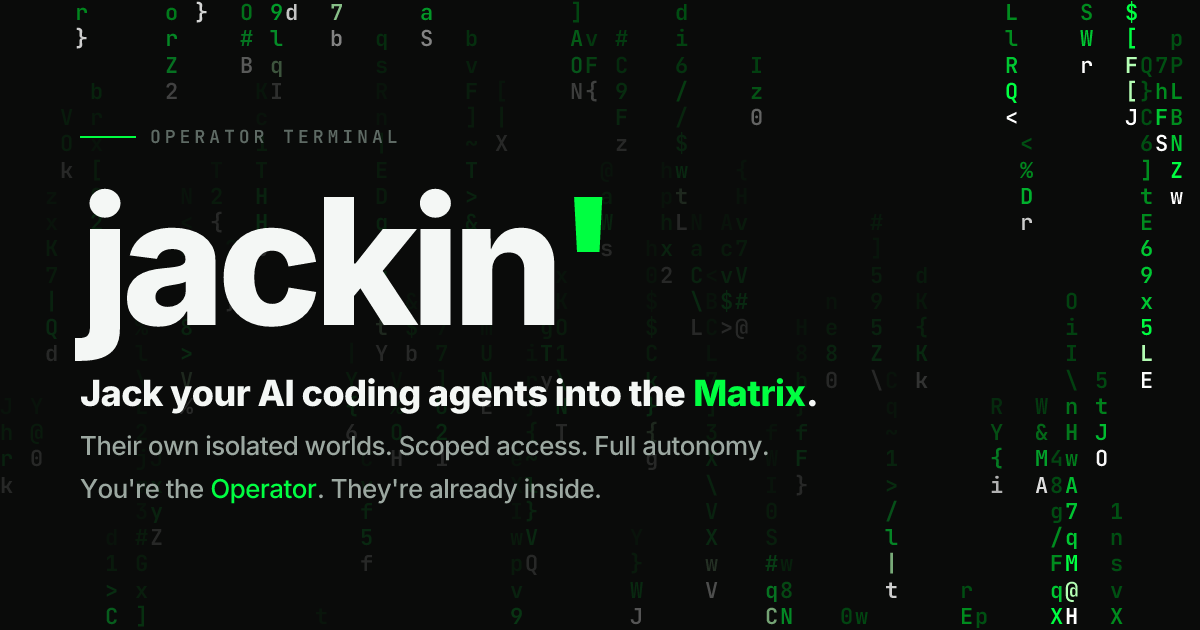
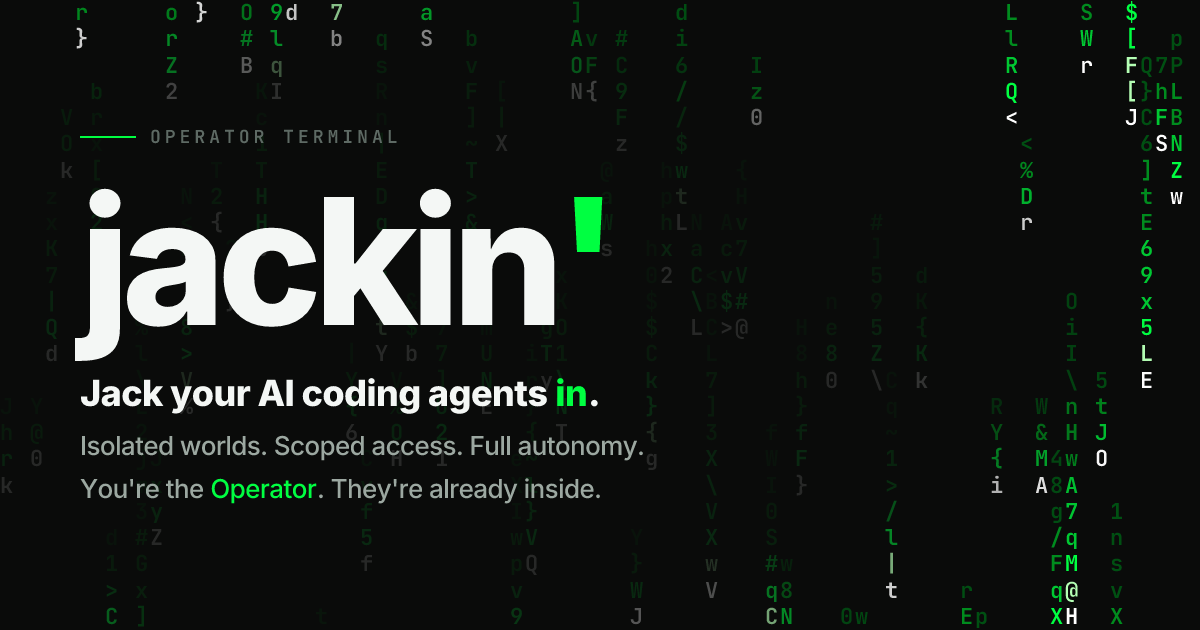
style(docs): drop franchise vocabulary from brand surface; rebrand to phosphor green
Per legal review (site is safe, but franchise-specific vocabulary is
the one residual risk), removes the franchise-specific noun from every piece
of user-facing brand copy and renames the internal colour tokens to
neutral vocabulary.

Tagline rework — "Level 2" from the brainstorm:

  Before:  Jack your AI coding agents in.
  After:   Jack your AI coding agents in.

  The "in" doubles as preposition + reveal (matches the third line's
  "They're already inside"). The three-line OG tagline structure is
  preserved; line 2 now leads with "Isolated worlds" instead of
  "Their own isolated worlds" since line 1 no longer names a
  destination. "Jack in" the verb stays — it predates the franchise
  (Gibson-era cyberpunk) and the legal note confirmed it's generic.

Surfaces updated:
  - OG image tagline + accent word (now "in" in phosphor green)
  - index.astro TITLE + DESCRIPTION + OG_ALT
  - Head.astro og:image:alt + twitter:image:alt
  - astro.config.ts Starlight description
  - public/site.webmanifest (regenerated)

Internal vocabulary:
  - "phosphor green" → "phosphor green" in CSS comments
    (docs-theme.css, SiteTitle.astro, gen-icons.ts, OG route)
  - "phosphor-rain feel" / "phosphor-rain backdrop" → "phosphor-rain feel" /
    "phosphor-rain backdrop" (gen-og.ts, DigitalRain.tsx)

Scope boundary: this pass only touches the brand surface (tagline,
meta, CSS comments). The MDX content pages that use the franchise
[…]

Changed region(s): [[0.0617, 0.6937, 0.6475, 0.7238], [0.4625, 0.6032, 0.6783, 0.6635]]

diff --git a/docs/scripts/gen-og.ts b/docs/scripts/gen-og.ts
@@ -64,7 +64,7 @@ function makeSeededRng(seed: number): () => number {
 
 // Grid sized so cells render ~22px tall at the 1200×630 canvas.
 // 80 × 24 keeps the character count ~2k max (well under satori's
-// hard limit) and leaves enough density for the Matrix feel.
+// hard limit) and leaves enough density for the phosphor-rain feel.
 const RAIN_COLS = 80
 const RAIN_ROWS = 24
 const CELL_W = 1200 / RAIN_COLS
@@ -297,8 +297,11 @@ const tree = h(
         },
         // Satori trims whitespace between flex children; nbsp inside the
         // span preserves the visible gap without a CSS margin hack.
-        'Jack your AI coding agents into the',
-        h('span', { style: { display: 'flex', color: '#00ff41' } }, '\u00A0Matrix'),
+        // "in" is the accent word — its double duty (preposition + the
+        // inside/outside boundary that's the brand concept) carries the
+        // line without naming a franchise-adjacent destination.
+        'Jack your AI coding agents',
+        h('span', { style: { display: 'flex', color: '#00ff41' } }, '\u00A0in'),
         '.'
       ),
       h(
@@ -313,7 +316,7 @@ const tree = h(
             lineHeight: 1.35,
           },
         },
-        'Their own isolated worlds. Scoped access. Full autonomy.'
+        'Isolated worlds. Scoped access. Full autonomy.'
       ),
       h(
         'div',

diff --git a/docs/src/styles/docs-theme.css b/docs/src/styles/docs-theme.css
@@ -28,10 +28,10 @@
   --sl-content-width: 48rem;
   --sl-nav-height: 3.5rem;
 
-  /* Brand accent — theme-aware so dark mode can keep the bright Matrix
-     green while light mode uses a juicy-but-usable mid-green. Per-theme
-     values live in the [data-theme='*'] blocks below; this fallback
-     matches the dark-mode default for pre-theme-set renders. */
+  /* Brand accent — theme-aware so dark mode can keep the bright
+     phosphor green while light mode uses a juicy-but-usable mid-green.
+     Per-theme values live in the [data-theme='*'] blocks below; this
+     fallback matches the dark-mode default for pre-theme-set renders. */
   --jk-brand:      #00ff41;
 
   /* Fallback --jk-* tokens (dark). Ensures tokens resolve before
@@ -64,7 +64,7 @@
   --jk-text-ghost: #5e6a64;
   --jk-accent:     #00ff41;
   --jk-accent-dim: #00b82f;
-  --jk-brand:      #00ff41;   /* bright Matrix green on dark surfaces */
+  --jk-brand:      #00ff41;   /* bright phosphor green on dark surfaces */
   --jk-ui:         rgba(244, 247, 245, 0.1);
   --jk-ui-strong:  rgba(244, 247, 245, 0.22);
   --jk-ui-subtle:  rgba(244, 247, 245, 0.05);

diff --git a/docs/scripts/gen-icons.ts b/docs/scripts/gen-icons.ts
@@ -57,7 +57,7 @@ const h = (
 })
 
 // The icon tree: a black rounded square holding the "j'" wordmark in
-// Inter Black, white "j" next to a Matrix-green apostrophe. Sized in
+// Inter Black, white "j" next to a phosphor-green apostrophe. Sized in
 // px against a 512-unit canvas — larger rasters come from satori's
 // output; smaller rasters are produced by resvg scaling.
 //
@@ -129,7 +129,7 @@ const manifest = {
   name: "jackin'",
   short_name: "jackin'",
   description:
-    "Jack your AI coding agents into the Matrix. Their own isolated worlds, scoped access, full autonomy. You're the Operator. They're already inside.",
+    "Jack your AI coding agents in. Isolated worlds, scoped access, full autonomy. You're the Operator. They're already inside.",
   start_url: '/',
   display: 'standalone',
   background_color: BG,

diff --git a/docs/astro.config.ts b/docs/astro.config.ts
@@ -23,7 +23,7 @@ export default defineConfig({
     starlight({
       title: "jackin'",
       description:
-        "Jack your AI coding agents into the Matrix. Their own isolated worlds, scoped access, full autonomy. You're the Operator. They're already inside.",
+        "Jack your AI coding agents in. Isolated worlds, scoped access, full autonomy. You're the Operator. They're already inside.",
       // Two dark shiki themes — code blocks stay dark in both page modes
       // (see --jk-code-bg in docs-theme.css), but the syntax palette
       // differs: github-dark is the subdued dark-page default, and

diff --git a/docs/src/components/landing/DigitalRain.tsx b/docs/src/components/landing/DigitalRain.tsx
@@ -23,7 +23,7 @@ export function DigitalRain({ fontSize = 14, cellW = 12, cellH = 18, frameMs = 3
       // Render a single populated still frame and stop — previously
       // this branch only sized the canvas and returned, leaving
       // reduced-motion users with a blank black area instead of the
-      // intended static Matrix backdrop.
+      // intended static phosphor-rain backdrop.
       const rect = canvas.getBoundingClientRect();
       const dpr = window.devicePixelRatio || 1;
       canvas.width = rect.width * dpr;

diff --git a/docs/src/pages/og/[...slug].png.ts b/docs/src/pages/og/[...slug].png.ts
@@ -31,7 +31,7 @@ const route = await OGImageRoute({
   getImageOptions: (_path, { data }: { data: { title: string; description?: string } }) => ({
     title: data.title,
     description: data.description ?? '',
-    // Landing palette — black bg, Matrix-green accent bar, near-white text.
+    // Landing palette — black bg, phosphor-green accent bar, near-white text.
     bgGradient: [[10, 11, 10]],
     border: { color: [0, 255, 65], width: 12, side: 'inline-start' },
     padding: 80,
